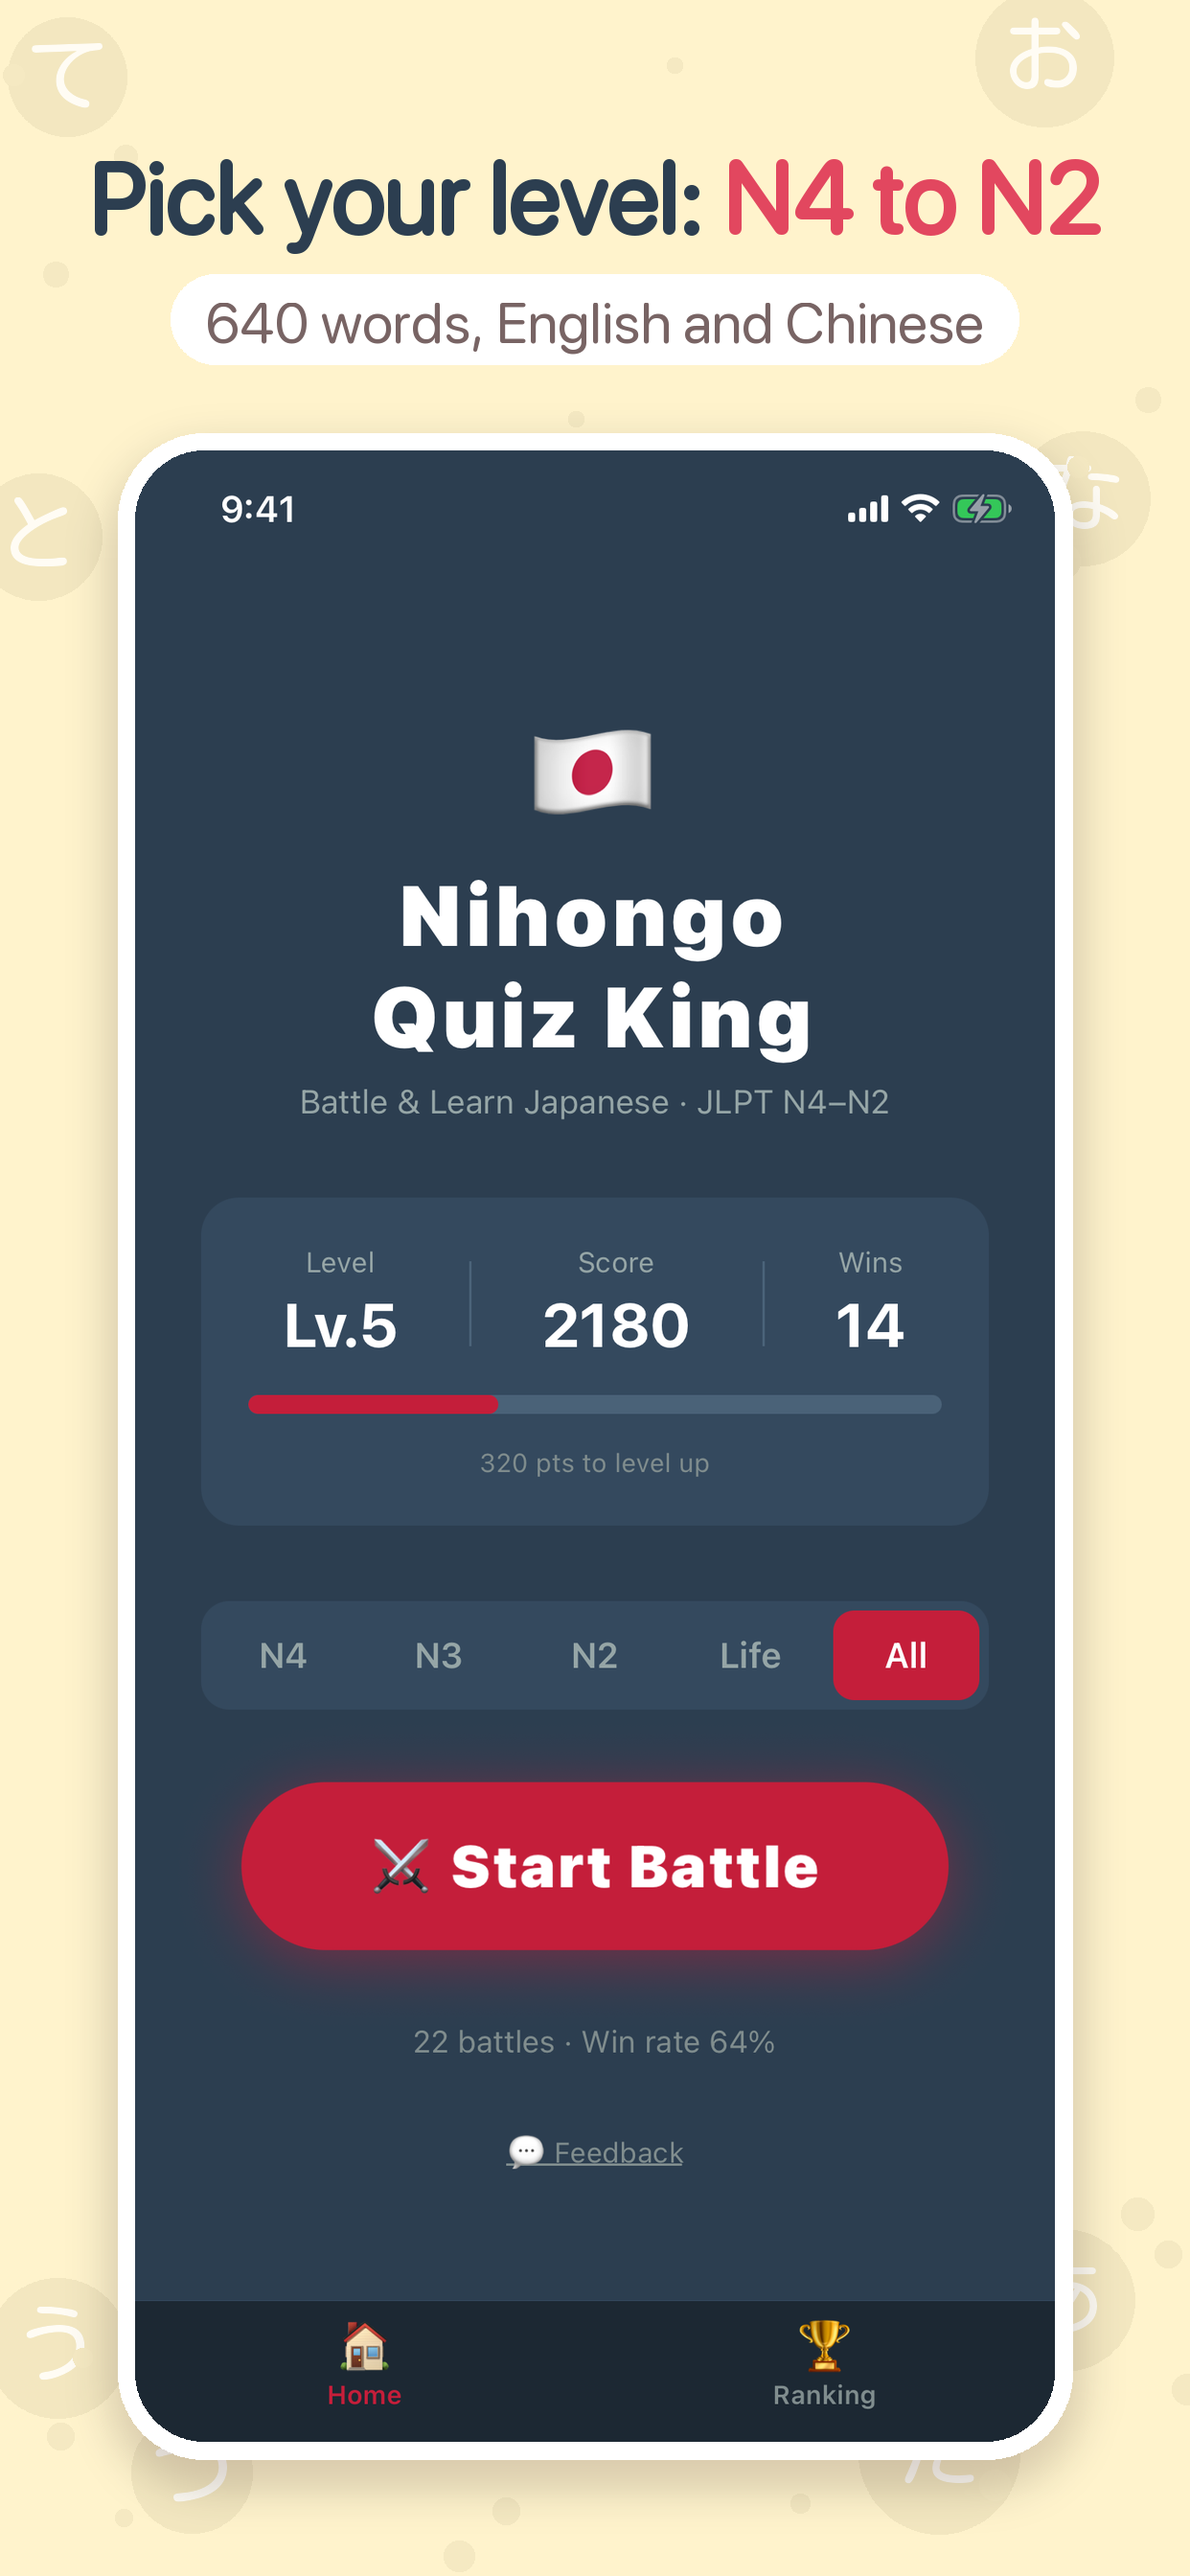
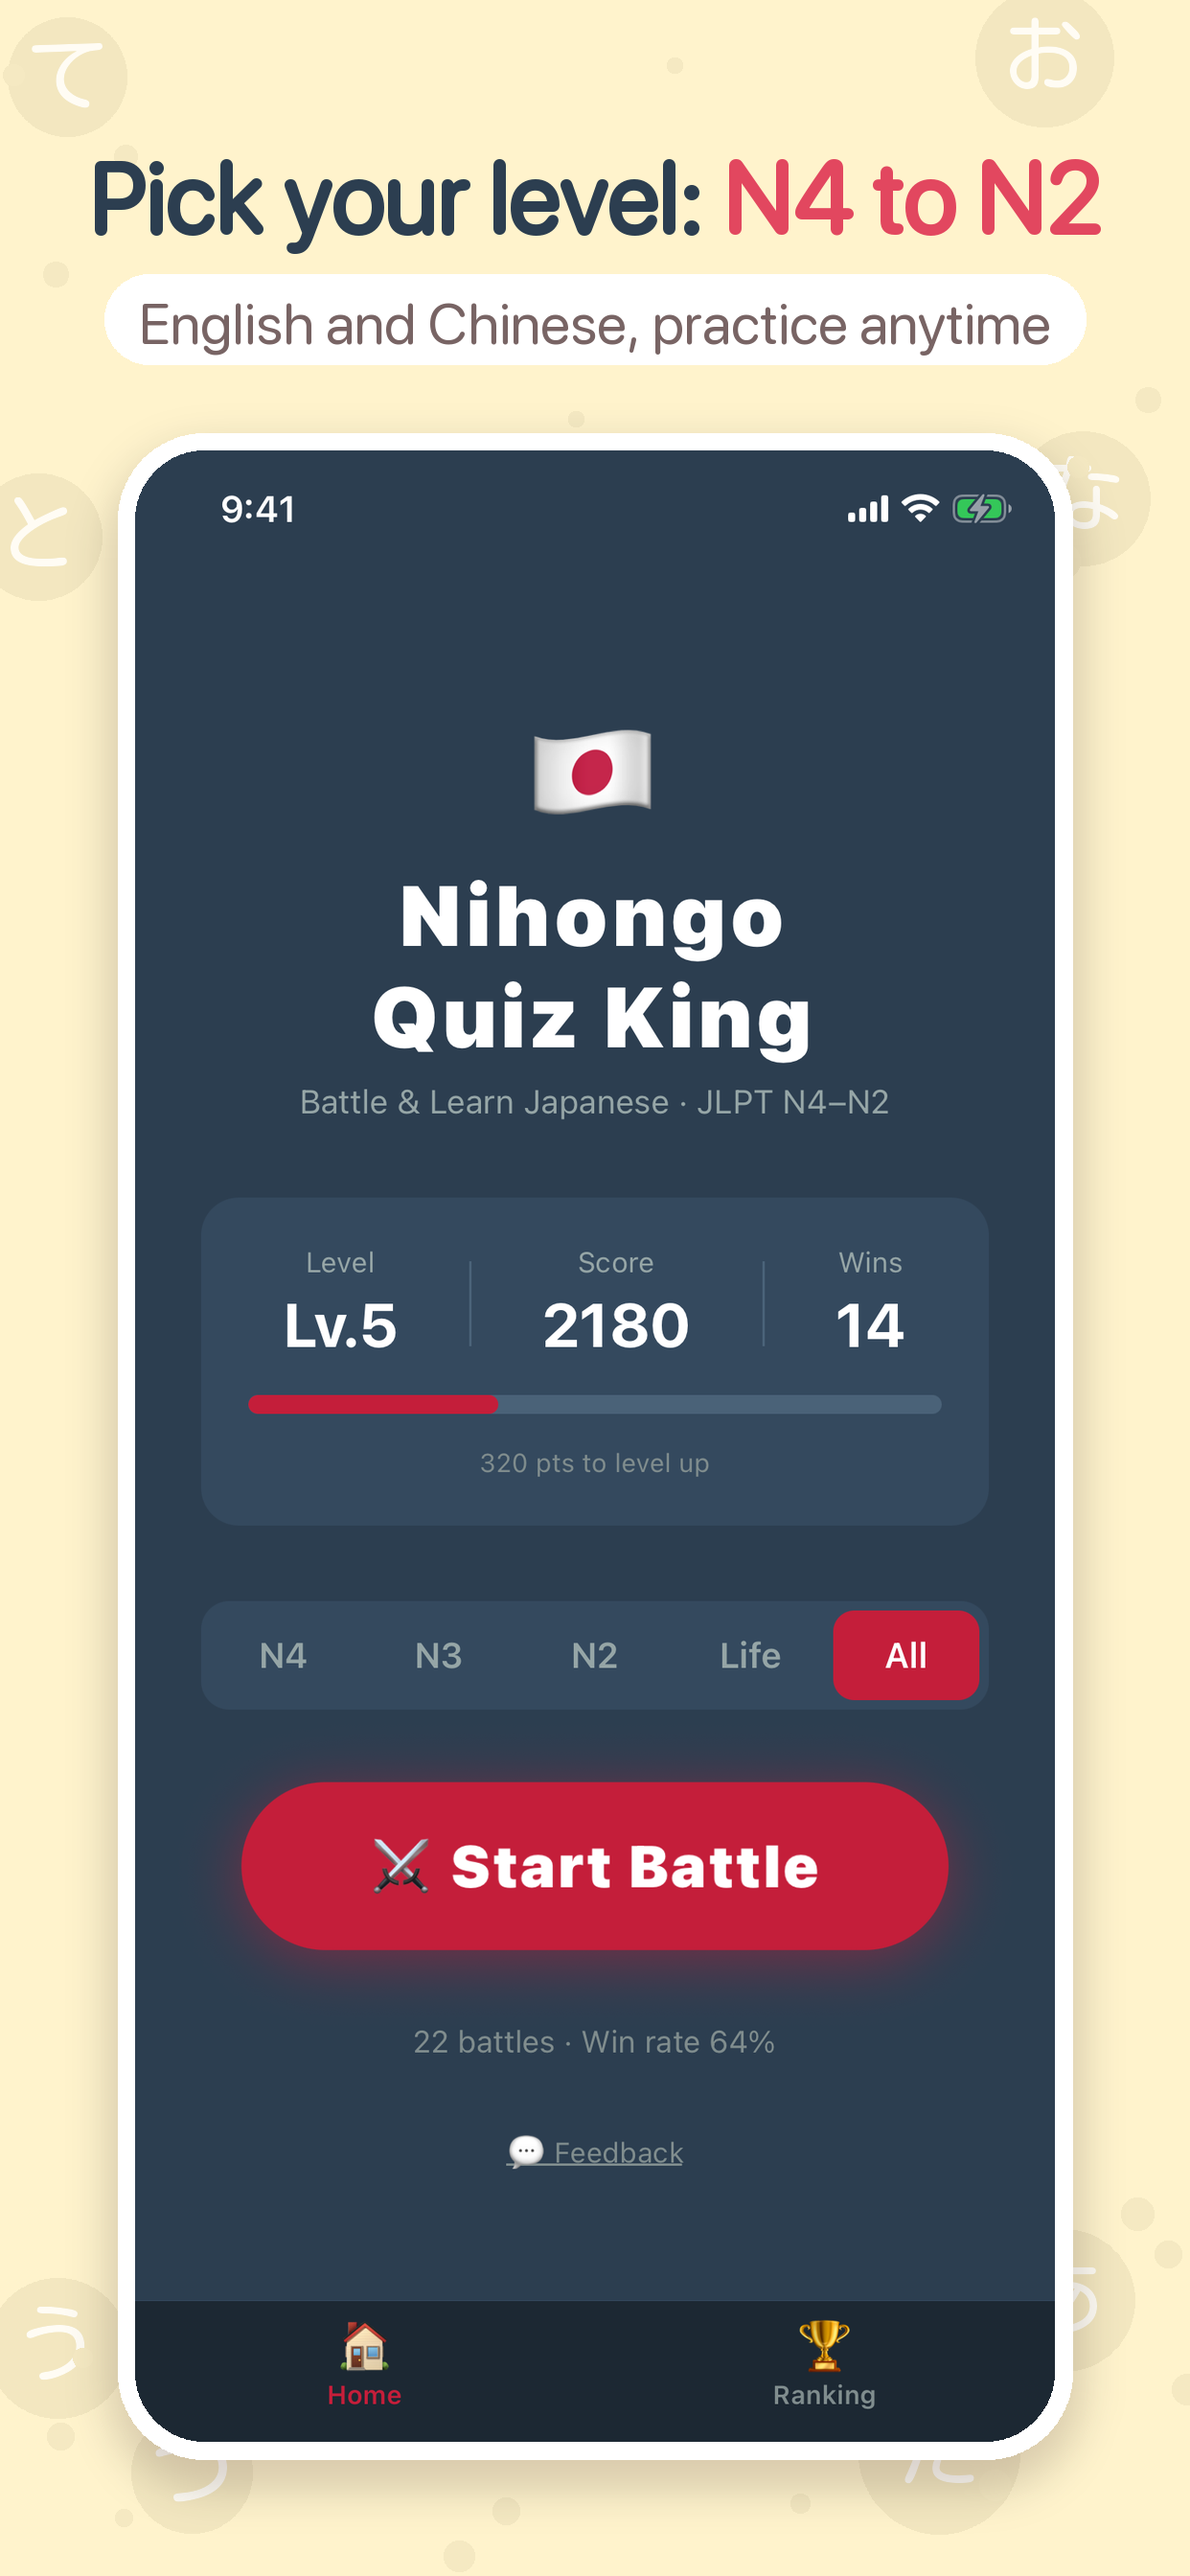
appstore: creative header assets, drop word count from screenshot 3
- scripts/compose_appstore_header.py: product page header / search result
  asset (5244x2950 universal + 3840x1646), zh and en
- Screenshot 3 subline: '中英雙語，隨時練習' / 'English and Chinese, practice anytime'

Changed region(s): [[0.0918, 0.0938, 0.9179, 0.1562]]

diff --git a/scripts/compose_appstore_header.py b/scripts/compose_appstore_header.py
@@ -1,0 +1,128 @@
+"""App Store creative asset (product page header + search results), pastel style.
+
+Usage:
+  python3 scripts/compose_appstore_header.py <raw_dir> <out_dir> <zh_font.ttf>
+
+- raw_dir: en/ and zh/ with 1170x2532 simulator shots battle1 / correct / result .png
+- zh_font: jf open 粉圓 (see compose_appstore_screenshots.py for the download link)
+- Writes <out_dir>/{zh,en}/header_universal_5244x2950.png and header_3840x1646.png
+
+Safe area: the universal 16:9 asset is cropped to ~2.33:1 for the header (top and
+bottom ~12% cut) and to ~3:2 for search results (left and right ~8% cut), so all
+text and the icon stay inside the central 4400 x 2200 px.
+"""
+import os
+import random
+import sys
+from PIL import Image, ImageDraw, ImageFilter, ImageFont
+
+RAW, OUT, ZH_FONT = sys.argv[1], sys.argv[2], sys.argv[3]
+W, H = 5244, 2950
+BG = (255, 228, 234)          # sakura pastel, same as screenshot 1
+NAVY = (44, 62, 80)
+RED = (226, 71, 95)
+SUBTXT = (120, 100, 100)
+KANA = 'あいうえおかきくけこさしすせそたちつてとなにぬねの'
+HERE = os.path.dirname(os.path.abspath(__file__))
+ICON = os.path.join(HERE, '..', 'assets', 'icon.png')
+
+TEXT = {
+    'zh': ('日文知識王', ['1 對 1 ', '日文單字對戰'], 'JLPT 考試必選 APP'),
+    'en': ('Nihongo Quiz King', ['Japanese ', 'vocab battles'], 'The must-have JLPT app'),
+}
+
+
+def font(lang, size):
+    if lang == 'zh':
+        return ImageFont.truetype(ZH_FONT, size)
+    return ImageFont.truetype('/System/Library/Fonts/SFNSRounded.ttf', size)
+
+
+def rrect(draw, box, r, fill):
+    x0, y0, x1, y1 = box
+    draw.rectangle([x0 + r, y0, x1 - r, y1], fill=fill)
+    draw.rectangle([x0, y0 + r, x1, y1 - r], fill=fill)
+    for cx, cy, a in ((x0, y0, 180), (x1 - 2 * r, y0, 270), (x0, y1 - 2 * r, 90), (x1 - 2 * r, y1 - 2 * r, 0)):
+        draw.pieslice([cx, cy, cx + 2 * r, cy + 2 * r], a, a + 90, fill=fill)
+
+
+def bubbles(canvas):
+    rnd = random.Random(7)
+    layer = Image.new('RGBA', canvas.size, (0, 0, 0, 0))
+    d = ImageDraw.Draw(layer)
+    tint = tuple(c - 28 for c in BG)
+    kf = ImageFont.truetype(ZH_FONT, 230)
+    for x, y in [(260, 300), (4980, 260), (200, 2650), (5000, 2700), (2500, 2780), (1900, 170), (3500, 2800)]:
+        r = rnd.randint(150, 220)
+        d.ellipse([x - r, y - r, x + r, y + r], fill=tint + (110,))
+        ch = rnd.choice(KANA)
+        tw, th = d.textsize(ch, font=kf)
+        d.text((x - tw / 2, y - th / 2 - 20), ch, font=kf, fill=(255, 255, 255, 200))
+    for _ in range(60):
+        x, y = rnd.randint(0, W), rnd.randint(0, H)
+        r = rnd.randint(16, 40)
+        d.ellipse([x - r, y - r, x + r, y + r], fill=tint + (80,))
+    canvas.paste(layer, (0, 0), layer)
+
+
+def phone(shot_path, width, angle):
+    shot = Image.open(shot_path).convert('RGB')
+    h = round(shot.height * width / shot.width)
+    shot = shot.resize((width, h), Image.LANCZOS)
+    pad, bez, r = 120, 40, 150
+    tile = Image.new('RGBA', (width + 2 * pad, h + 2 * pad), (0, 0, 0, 0))
+    sh = Image.new('RGBA', tile.size, (0, 0, 0, 0))
+    rrect(ImageDraw.Draw(sh), [pad - bez, pad - bez + 30, pad + width + bez, pad + h + bez + 60], r + bez, (120, 90, 90, 90))
+    tile.paste(sh.filter(ImageFilter.GaussianBlur(50)), (0, 0), sh.filter(ImageFilter.GaussianBlur(50)))
+    rrect(ImageDraw.Draw(tile), [pad - bez, pad - bez, pad + width + bez, pad + h + bez], r + bez, (255, 255, 255, 255))
+    mask = Image.new('L', (width, h), 0)
+    rrect(ImageDraw.Draw(mask), [0, 0, width - 1, h - 1], r, 255)
+    tile.paste(shot, (pad, pad), mask)
+    return tile.rotate(angle, resample=Image.BICUBIC, expand=True)
+
+
+for lang, (name, head, sub) in TEXT.items():
+    canvas = Image.new('RGB', (W, H), BG)
+    bubbles(canvas)
+    d = ImageDraw.Draw(canvas)
+
+    # left block: icon, app name, headline, subline (inside the safe area)
+    icon = Image.open(ICON).convert('RGBA').resize((520, 520), Image.LANCZOS)
+    m = Image.new('L', icon.size, 0)
+    rrect(ImageDraw.Draw(m), [0, 0, 519, 519], 115, 255)
+    x0 = 700
+    canvas.paste(icon, (x0, 640), m)
+    nsize = 200
+    while d.textsize(name, font=font(lang, nsize))[0] > 1350:
+        nsize -= 5
+    d.text((x0 + 600, 900 - nsize * 0.7), name, font=font(lang, nsize), fill=NAVY, stroke_width=4, stroke_fill=NAVY)
+    # shrink the headline until it ends before the phones (x ~2750)
+    size = 250
+    while True:
+        hf = font(lang, size)
+        if sum(d.textsize(p, font=hf)[0] for p in head) <= 2000 or size <= 120:
+            break
+        size -= 5
+    x = x0
+    for part, col in zip(head, (NAVY, RED)):
+        d.text((x, 1290), part, font=hf, fill=col, stroke_width=6, stroke_fill=col)
+        x += d.textsize(part, font=hf)[0]
+    sf = font(lang, 130)
+    sw = d.textsize(sub, font=sf)[0]
+    rrect(d, [x0 - 10, 1700, x0 + sw + 150, 1930], 115, (255, 255, 255))
+    d.text((x0 + 70, 1735), sub, font=sf, fill=SUBTXT)
+
+    # right block: three phones fanned out, kept inside the central height
+    shots = [os.path.join(RAW, lang, f'{n}.png') for n in ('battle1', 'correct', 'result')]
+    for path, cx, cy, ang, wd in [(shots[2], 4280, 1500, -8, 680), (shots[0], 3330, 1500, 8, 680), (shots[1], 3800, 1440, 0, 780)]:
+        t = phone(path, wd, ang)
+        canvas.paste(t, (cx - t.width // 2, cy - t.height // 2), t)
+
+    out = os.path.join(OUT, lang)
+    os.makedirs(out, exist_ok=True)
+    canvas.save(os.path.join(out, 'header_universal_5244x2950.png'))
+    # header-only version: crop to 3840x1646's aspect from the centre, then resize
+    ch = round(W * 1646 / 3840)
+    top = (H - ch) // 2
+    canvas.crop((0, top, W, top + ch)).resize((3840, 1646), Image.LANCZOS).save(os.path.join(out, 'header_3840x1646.png'))
+    print(lang, 'done')

diff --git a/scripts/compose_appstore_screenshots.py b/scripts/compose_appstore_screenshots.py
@@ -30,14 +30,14 @@ CAPTIONS = {
     'zh': [
         ('battle1', ['1 對 1 ', '日文單字對戰'], '和對手限時搶答'),
         ('correct', ['10 秒', '搶答'], '越快答對，分數越高'),
-        ('home', ['N4 到 N2 ', '任你選'], '640 個單字，中英雙語'),
+        ('home', ['N4 到 N2 ', '任你選'], '中英雙語，隨時練習'),
         ('result', ['打贏對手，', '累積升級'], '每一題的答案都看得到'),
         ('rank', ['每週', '排行榜'], '看看你這週排第幾'),
     ],
     'en': [
         ('battle1', ['Japanese ', 'vocab battles'], 'Race an opponent'),
         ('correct', ['10 seconds ', 'per question'], 'Answer faster, score higher'),
-        ('home', ['Pick your level: ', 'N4 to N2'], '640 words, English and Chinese'),
+        ('home', ['Pick your level: ', 'N4 to N2'], 'English and Chinese, practice anytime'),
         ('result', ['Win and ', 'level up'], 'Review every answer'),
         ('rank', ['Weekly ', 'leaderboard'], 'See where you rank this week'),
     ],

diff --git a/docs/appstore/listing.md b/docs/appstore/listing.md
@@ -122,7 +122,7 @@ GREAT FOR
 |---|---|---|---|
 | 1 | 作答中 | 1 對 1 日文單字對戰 / 和對手限時搶答 | Japanese vocab battles / Race an opponent |
 | 2 | 答對瞬間 | 10 秒搶答 / 越快答對，分數越高 | 10 seconds per question / Answer faster, score higher |
-| 3 | 首頁 | N4 到 N2 任你選 / 640 個單字，中英雙語 | Pick your level: N4 to N2 / 640 words, English and Chinese |
+| 3 | 首頁 | N4 到 N2 任你選 / 中英雙語，隨時練習 | Pick your level: N4 to N2 / English and Chinese, practice anytime |
 | 4 | 勝利結算 | 打贏對手，累積升級 / 每一題的答案都看得到 | Win and level up / Review every answer |
 | 5 | 排行榜 | 每週排行榜 / 看看你這週排第幾 | Weekly leaderboard / See where you rank this week |
 
